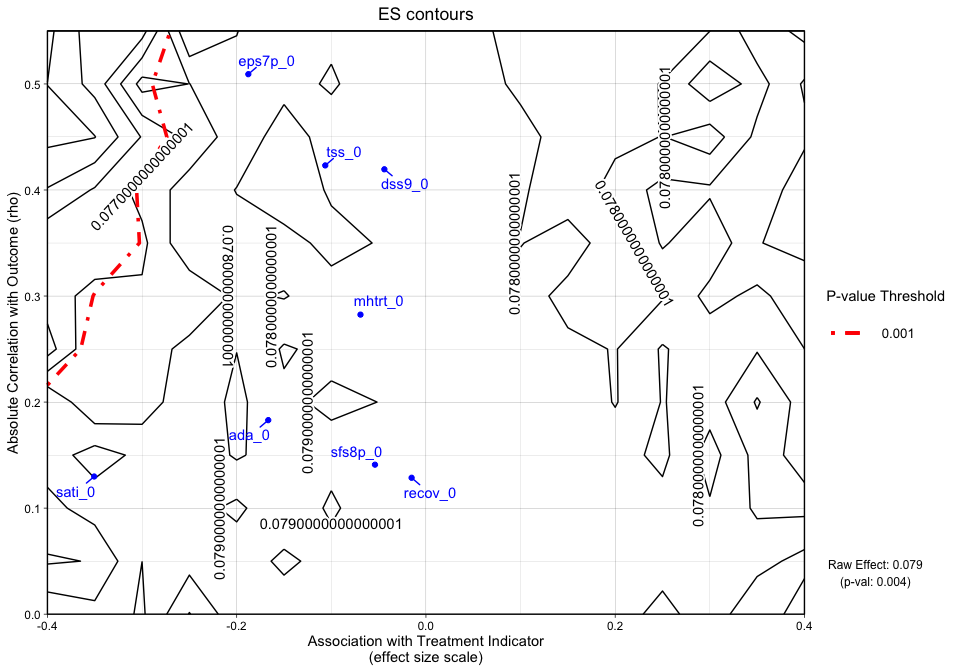
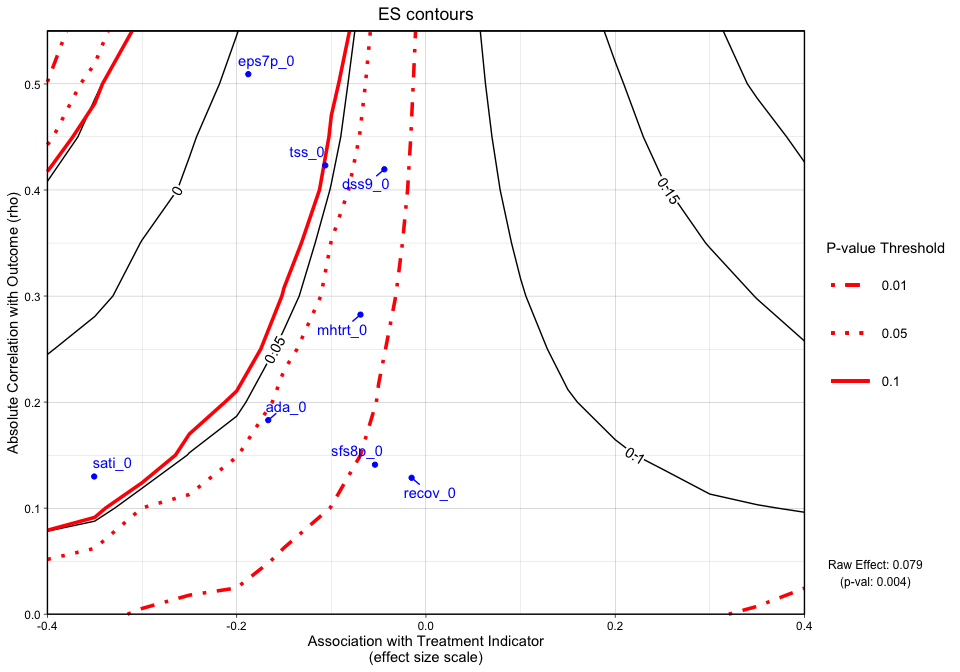
update readme

diff --git a/README.md b/README.md
@@ -3,7 +3,7 @@
 
 
 *Note: This is a work in progress.. This document was lasted upated
-2020-06-23 23:37:53*
+2020-06-27 09:30:07*
 
 Introduction
 ============
@@ -284,7 +284,8 @@ used by `OVtool`.
                                                       "mhtrt_0", "dss9_0"),
                                   es_grid = NULL,
                                   rho_grid = seq(0, 0.40, by = 0.05),
-                                  n_reps=25)
+                                  n_reps=30,
+                                  progress = TRUE)
 
     ## [1] "Note: The maximum rho value you specified is less than the maximum absolute correlation a covariate has with the outcome. The rho grid was automatically expanded."
     ## [1] "6% Done!"
@@ -356,30 +357,6 @@ the effect is.
 
     plot.ov(ovtool_results_twang, print_graphic = "2", col = "color")
 
-    ## Warning: stat_contour(): Zero contours were generated
-
-    ## Warning in min(x): no non-missing arguments to min; returning Inf
-
-    ## Warning in max(x): no non-missing arguments to max; returning -Inf
-
-    ## Warning: stat_contour(): Zero contours were generated
-
-    ## Warning in min(x): no non-missing arguments to min; returning Inf
-
-    ## Warning in max(x): no non-missing arguments to max; returning -Inf
-
-    ## Warning: stat_contour(): Zero contours were generated
-
-    ## Warning in min(x): no non-missing arguments to min; returning Inf
-
-    ## Warning in max(x): no non-missing arguments to max; returning -Inf
-
-    ## Warning: stat_contour(): Zero contours were generated
-
-    ## Warning in min(x): no non-missing arguments to min; returning Inf
-
-    ## Warning in max(x): no non-missing arguments to max; returning -Inf
-
 <img src="README_files/figure-markdown_strict/fig2-1.png" style="display: block; margin: auto;" />
 
     ## [1] "NOTE: Covariates with absolute correlation with outcome greater than 0.4: eps7p_0 (Actual:
@@ -413,30 +390,6 @@ covariates as an indicator) of what would cause a change in the
 interpretation of their results.*
 
     plot.ov(ovtool_results_twang, print_graphic = "3", col = "color")
-
-    ## Warning: stat_contour(): Zero contours were generated
-
-    ## Warning in min(x): no non-missing arguments to min; returning Inf
-
-    ## Warning in max(x): no non-missing arguments to max; returning -Inf
-
-    ## Warning: stat_contour(): Zero contours were generated
-
-    ## Warning in min(x): no non-missing arguments to min; returning Inf
-
-    ## Warning in max(x): no non-missing arguments to max; returning -Inf
-
-    ## Warning: stat_contour(): Zero contours were generated
-
-    ## Warning in min(x): no non-missing arguments to min; returning Inf
-
-    ## Warning in max(x): no non-missing arguments to max; returning -Inf
-
-    ## Warning: stat_contour(): Zero contours were generated
-
-    ## Warning in min(x): no non-missing arguments to min; returning Inf
-
-    ## Warning in max(x): no non-missing arguments to max; returning -Inf
 
 <img src="README_files/figure-markdown_strict/fig3-1.png" style="display: block; margin: auto;" />
 
@@ -475,11 +428,13 @@ the ov object:
     ## [1] "The sign of the estimated effect is expected to remain consistent when simulated unobserved
     confounders have the same strength of association with the treatment indicator and outcome that are
     seen in the observed confounders. In the most extreme observed case, the estimated effect size is
-    reduced by 0 percent."
+    reduced by 88 percent."
     ## [1] "Statistical significance at the 0.05 level is expected to be robust to unobserved
     confounders with strengths of associations with the treatment indicator and outcome that are seen
-    in the observed confounders. In the most extreme observed case, the p-value would be expected to
-    increase from 0.004 to 0.006."
+    in 5 of the 8 observed confounders. In the most extreme observed case, the p-value would be
+    expected to increase from 0.004 to 0.740. Significance at the 0.05 level would not be expected to
+    be preserved for unobserved confounders that have the same strength of association with the
+    treatment indicator and outcome as eps7p_0, sati_0, tss_0."
 
 The `OVtool` gives a recommendation on how to report findings regarding
 the direction of the treatment effect and statistical significance. An
